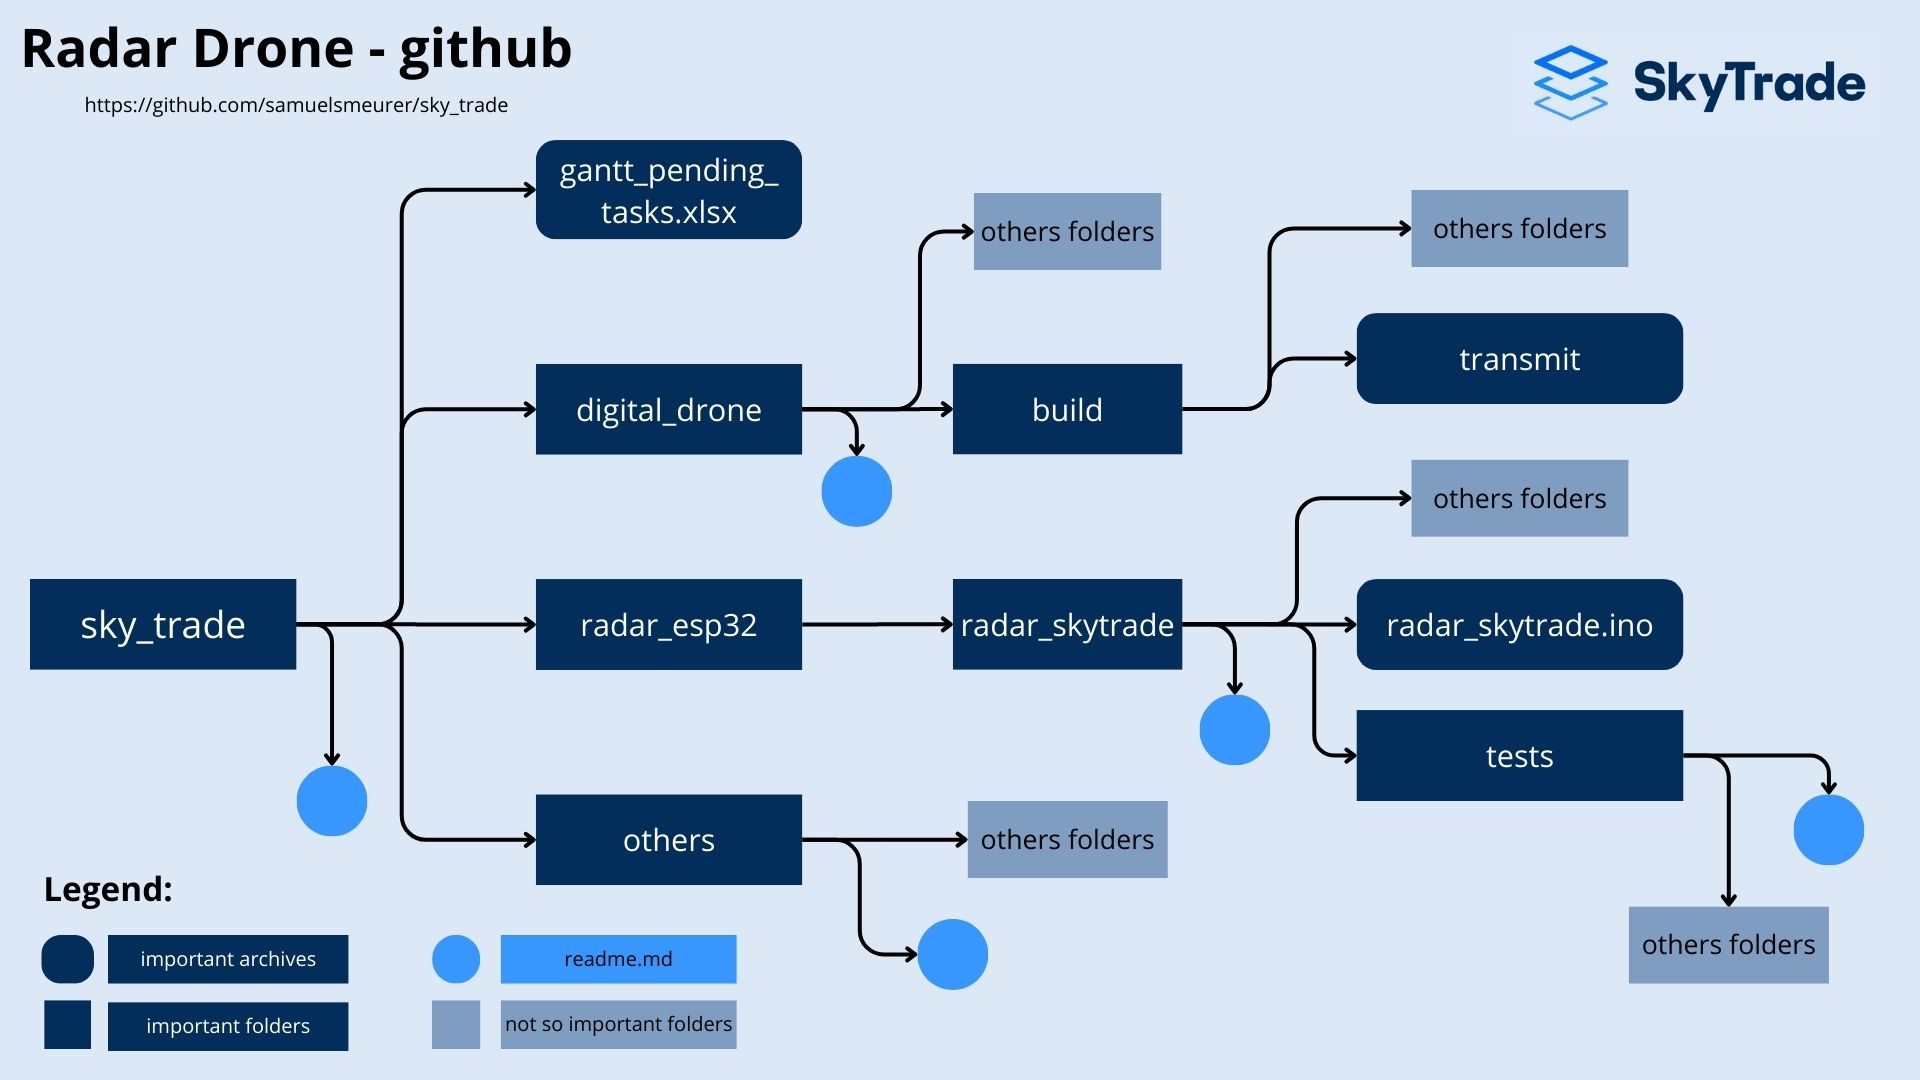
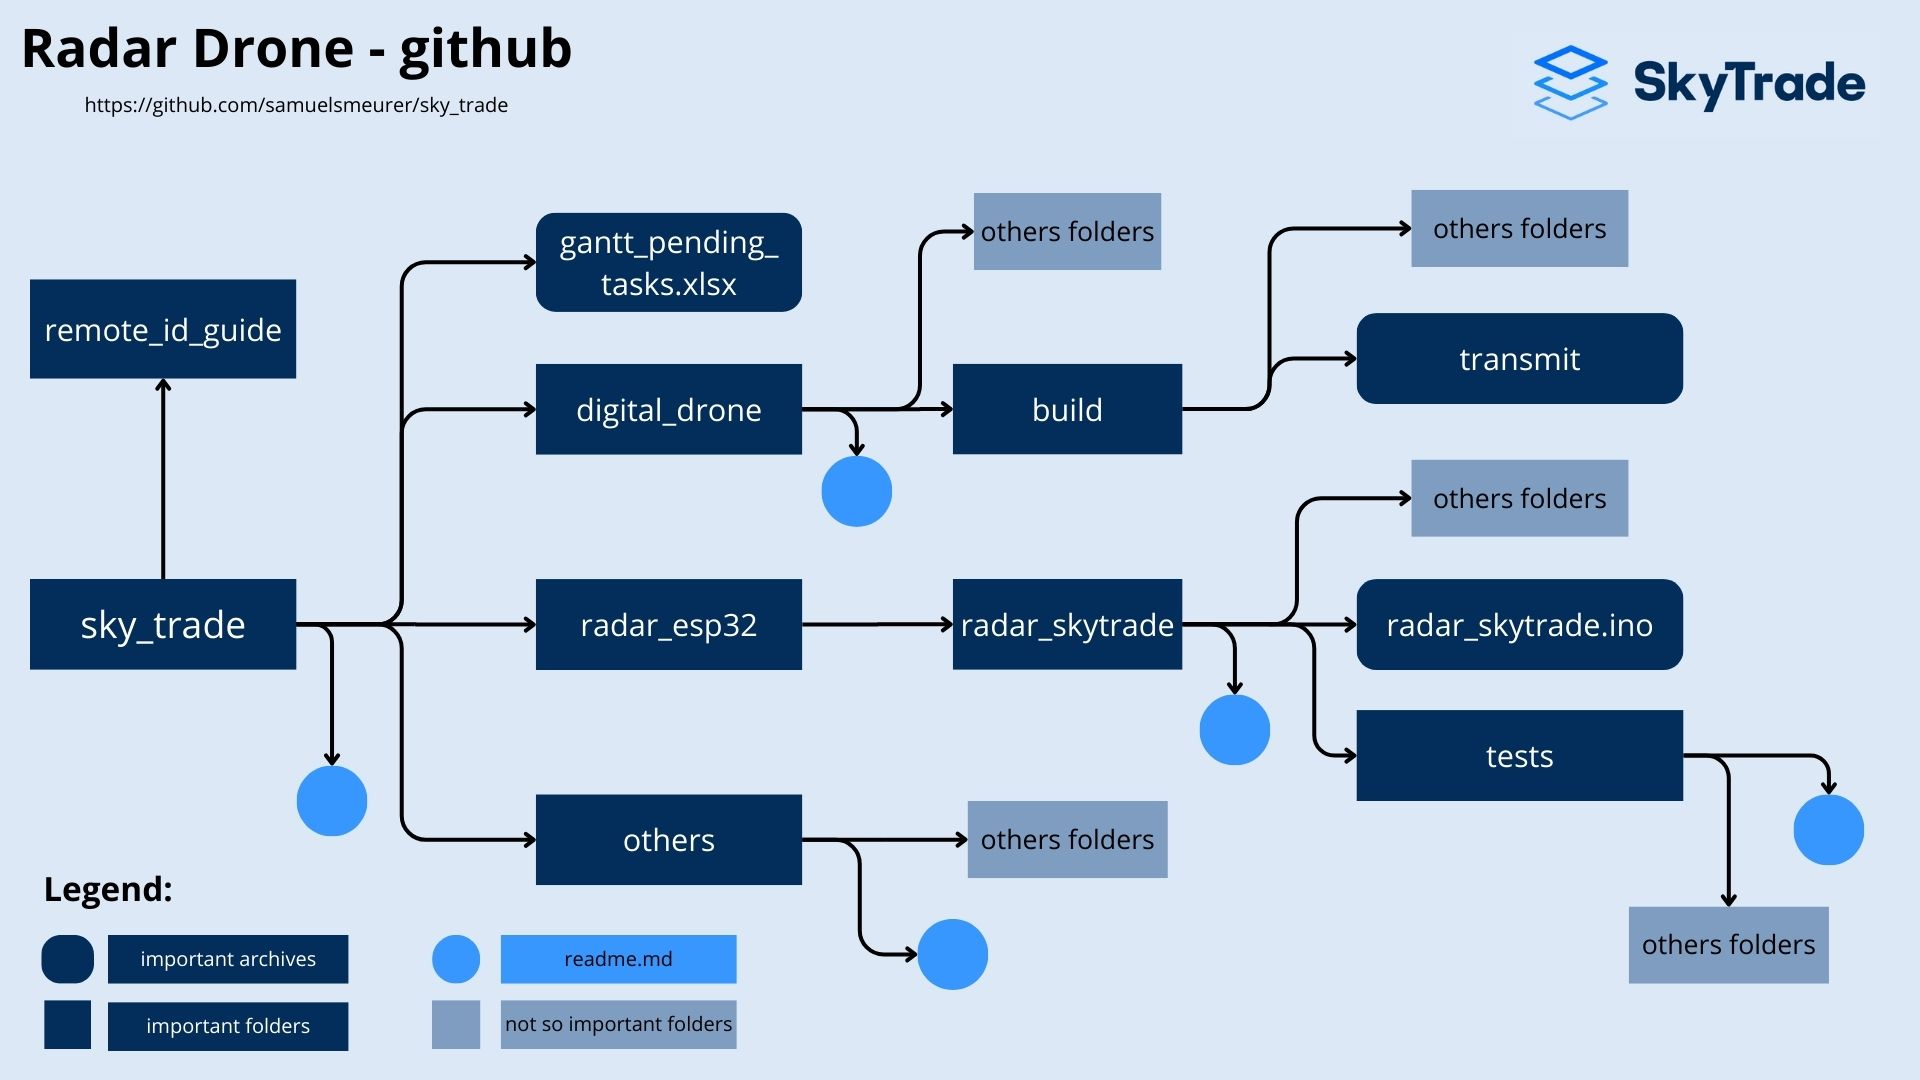
Adding the guide on remote ID

Changed region(s): [[0.2188, 0.1222, 0.4375, 0.3056], [0.0, 0.2444, 0.1562, 0.3667]]

diff --git a/remote_id_guide/README.md b/remote_id_guide/README.md
@@ -1,0 +1,27 @@
+<p align="right">
+  <img src="../others/images/16image.png" alt="SkyTrade" width="200" style="float: right;">
+</p>
+
+
+# Remote ID Guide
+This document contains key information to familiarize you with the Remote ID protocol.
+
+
+![Cover](../others/images/2.png)
+![ASTM F3411 22A](../others/images/3.png)
+![Information](../others/images/4.png)
+![ASTM F3411 22A - Broadcast and Networked UAS](../others/images/5.png)
+![ASTM F3411 22A - Conceptual Overview](../others/images/6.png)
+![ASTM F3411 22A - Standard Specification](../others/images/7.png)
+![Applicability](../others/images/8.png)
+![Regulation](../others/images/9.png)
+![What is FAA Remote ID?](../others/images/10.png)
+![FAA Remote ID Details](../others/images/11.png)
+![FAA Remote ID Implementation](../others/images/12.png)
+![FAA Remote ID Regulations](../others/images/13.png)
+![FAA Remote ID Compliance](../others/images/14.png)
+![FAA Remote ID Enforcement](../others/images/15.png)
+![FAA Remote ID Technology](../others/images/16.png)
+![FAA Remote ID Systems](../others/images/17.png)
+![FAA Remote ID Operations](../others/images/18.png)
+

diff --git a/README.md b/README.md
@@ -7,6 +7,9 @@ This repository serves as the standard base for the drone radar project developm
 
 ## Main Files and Folders
 
+### [`remote_id_guide`](https://github.com/samuelsmeurer/sky_trade/tree/main/remote_id_guide)
+This folder contains an initial guide to better understand the remote ID protocol.
+
 ### [`gantt_pending_tasks.xlsx`](https://github.com/samuelsmeurer/sky_trade/tree/main/gantt_pending_tasks.xlsx)
 This file contains a list of ongoing and pending tasks, providing an overview of the project backlog and planning.
 

diff --git a/others/README.md b/others/README.md
@@ -5,7 +5,7 @@
 # Others Sky Trade
 This folder contains various auxiliary scripts, process standardization images, and instructional images.
 
-The main code in this folder is `payload_scan.c.
+The main code in this folder is `payload_scan.c.`
 
 This code can be used by personnel who have access to a drone that sends remote ID via WiFi but do not have an ESP32. This code will execute and capture all WiFi packets in the 6GHz band and output them to the file `payloads.txt`.
 
